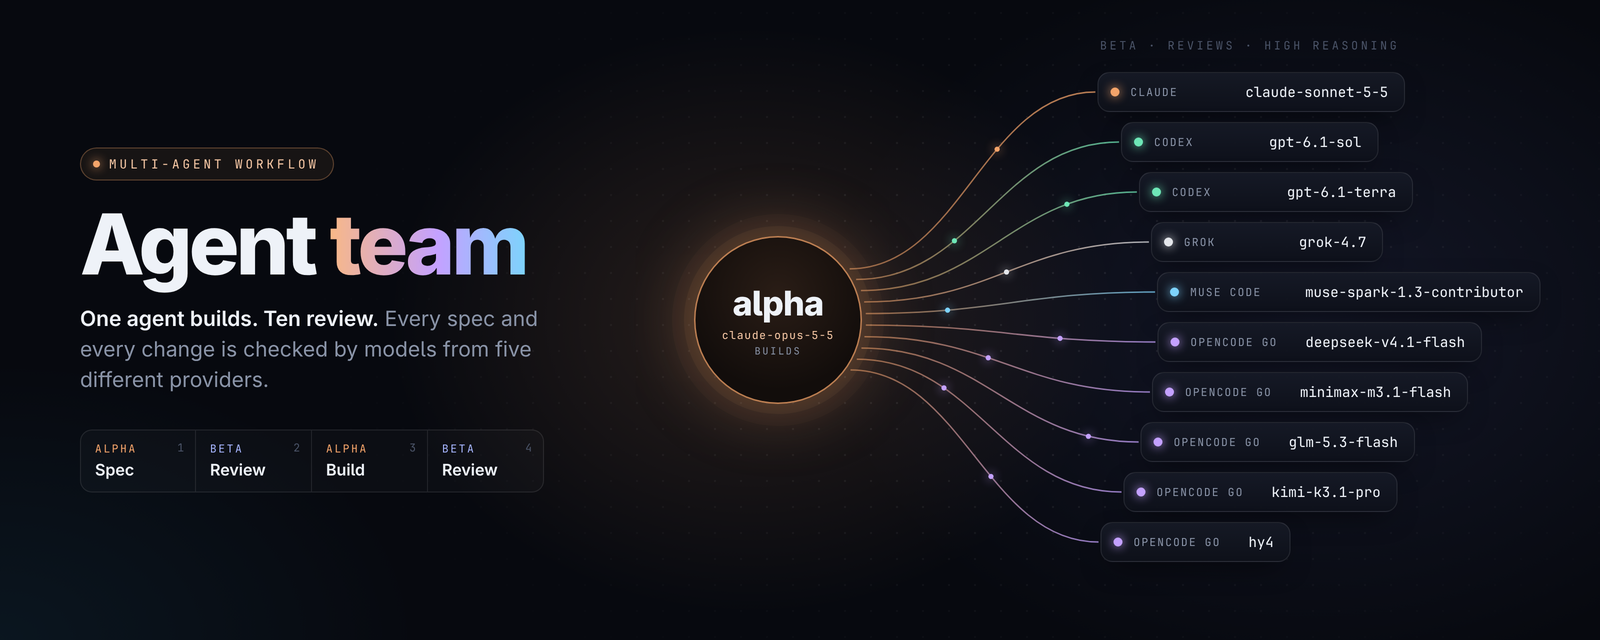
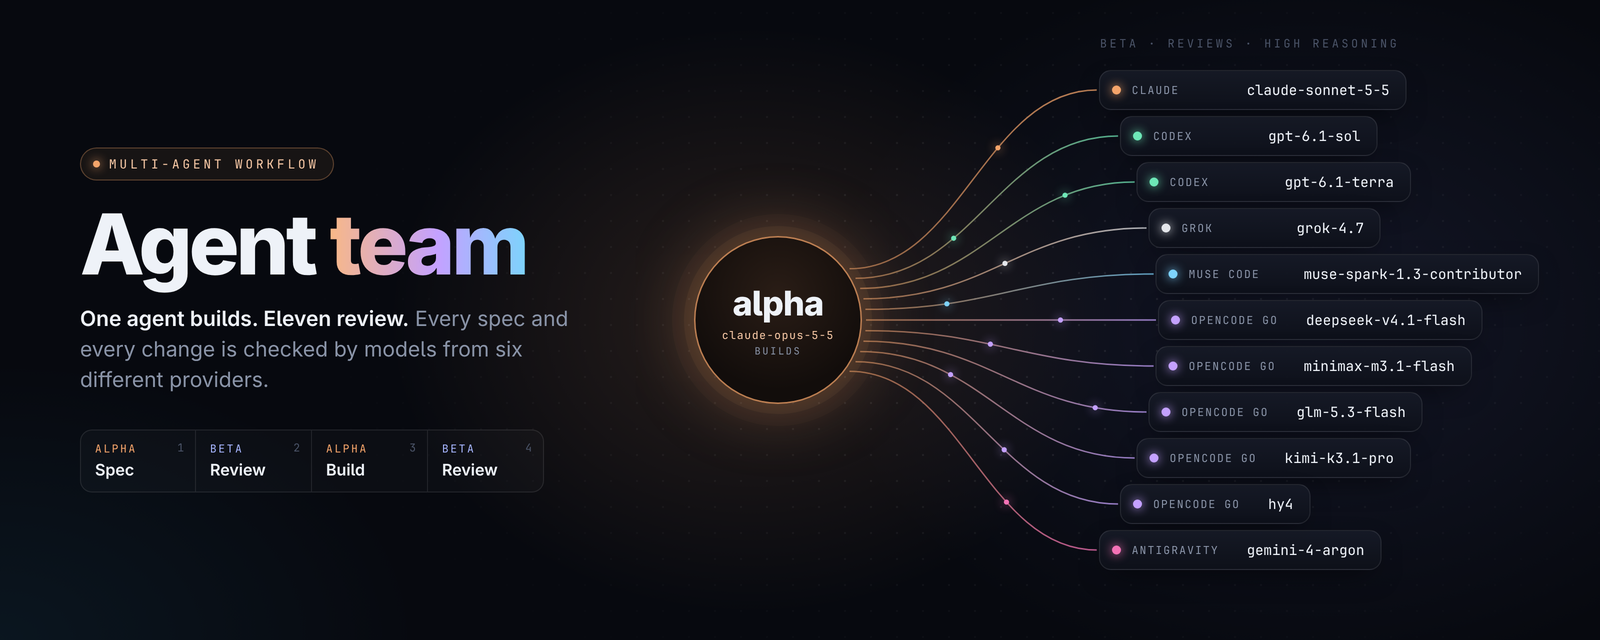
Add Gemini 4 Argon (Antigravity) to team beta
Gemini 4 Argon runs at thought level high through T3's Antigravity
provider, which here runs on the agy CLI's ACP server (agy acp). Beta
is now eleven reviewers from six providers.

The hero gets an Antigravity node. Its column now centres itself on
alpha from the team size, at slightly tighter spacing, so eleven nodes
fit in the 640px image.

diff --git a/assets/hero.html b/assets/hero.html
@@ -87,7 +87,7 @@
 <section class="copy">
   <div class="chip"><i></i>MULTI-AGENT WORKFLOW</div>
   <h1>Agent <span>team</span></h1>
-  <p class="lede"><b>One agent builds. Ten review.</b> Every spec and every change is checked by models from five different providers.</p>
+  <p class="lede"><b>One agent builds. Eleven review.</b> Every spec and every change is checked by models from six different providers.</p>
   <div class="steps">
     <div class="step"><div class="n">1</div><div class="who a">ALPHA</div><div class="what">Spec</div></div>
     <div class="step"><div class="n">2</div><div class="who b">BETA</div><div class="what">Review</div></div>
@@ -100,7 +100,7 @@
 <div class="label" id="betaLabel">BETA · REVIEWS · HIGH REASONING</div>
 
 <script>
-const COLORS = { Claude: "#f4a46a", Codex: "#6ee7b7", Grok: "#e5e7eb", "Muse Code": "#7dd3fc", "OpenCode Go": "#c4a1ff" }
+const COLORS = { Claude: "#f4a46a", Codex: "#6ee7b7", Grok: "#e5e7eb", "Muse Code": "#7dd3fc", "OpenCode Go": "#c4a1ff", Antigravity: "#f472b6" }
 const TEAM = [
   ["Claude", "claude-sonnet-5-5"],
   ["Codex", "gpt-6.1-sol"],
@@ -112,18 +112,20 @@ const TEAM = [
   ["OpenCode Go", "glm-5.3-flash"],
   ["OpenCode Go", "kimi-k3.1-pro"],
   ["OpenCode Go", "hy4"],
+  ["Antigravity", "gemini-4-argon"],
 ]
 
 const AX = 778, AY = 320, AR = 84           // alpha centre and radius
 const alpha = document.getElementById("alpha")
 alpha.style.left = (AX - AR) + "px"; alpha.style.top = (AY - AR) + "px"
 
-const firstY = 72, step = 50, R = 380
+const step = 46, R = 380, mid = (TEAM.length - 1) / 2
+const firstY = AY - 20 - step * mid         // centre the column on alpha
 const svg = document.getElementById("net")
 let defs = "<defs>", paths = "", dots = ""
 TEAM.forEach(([prov, model], i) => {
   const y = firstY + i * step + 20
-  const t = (y - AY) / (step * 4.5 + 20)    // -1 .. 1
+  const t = (y - AY) / (step * mid + 20)    // -1 .. 1
   const x = AX + R - 70 * t * t             // a gentle arc, nearest in the middle
   const el = document.createElement("div")
   el.className = "node"
@@ -140,7 +142,7 @@ TEAM.forEach(([prov, model], i) => {
   const d = `M${sx} ${sy} C${c1x} ${sy} ${c2x} ${ey} ${ex} ${ey}`
   paths += `<path d="${d}" fill="none" stroke="url(#l${i})" stroke-width="1.4"/>`
   // a travelling "packet" on each line, at varied positions
-  const f = [0.62, 0.35, 0.78, 0.5, 0.25, 0.7, 0.42, 0.85, 0.3, 0.58][i]
+  const f = [0.62, 0.35, 0.78, 0.5, 0.25, 0.7, 0.42, 0.85, 0.3, 0.58, 0.66][i]
   const mt = 1 - f
   const px = mt*mt*mt*sx + 3*mt*mt*f*c1x + 3*mt*f*f*c2x + f*f*f*ex
   const py = mt*mt*mt*sy + 3*mt*mt*f*sy + 3*mt*f*f*ey + f*f*f*ey

diff --git a/README.md b/README.md
@@ -1,5 +1,5 @@
 <p align="center">
-  <img src="assets/hero.png" alt="Agent team: alpha (claude-opus-5-5) builds, and ten beta reviewers from five providers review every spec and change" width="100%">
+  <img src="assets/hero.png" alt="Agent team: alpha (claude-opus-5-5) builds, and eleven beta reviewers from six providers review every spec and change" width="100%">
 </p>
 
 # Agent team
@@ -19,13 +19,16 @@
 | 8 | beta | OpenCode Go | `opencode-go/glm-5.3-flash` | high |
 | 9 | beta | OpenCode Go | `opencode-go/kimi-k3.1-pro` | high |
 | 10 | beta | OpenCode Go | `opencode-go/hy4` | high |
+| 11 | beta | Antigravity | `gemini-4-argon` | high |
 
 Every beta model runs at **high** reasoning, set explicitly (GPT-6.1 Terra defaults to low). The
 OpenCode models use the paid `opencode-go` tier, not the free models. Kimi K3.1 Pro replaces Mimo
 (`mimo-v2.6`), which is no longer on the team. GPT-6.1 Terra, a new OpenAI model, joins as a ninth
 reviewer, through Codex like GPT-6.1 Sol. Hy4 (`opencode-go/hy4`, not `hy4-preview`) joins as a tenth
 reviewer, through OpenCode Go. Muse Spark 1.3 (`muse-spark-1.3-contributor`) replaces Muse Wonder
-(`muse-wonder-1.0`), which Muse Code here does not offer.
+(`muse-wonder-1.0`), which Muse Code here does not offer. Gemini 4 Argon (`gemini-4-argon`, thought
+level high) joins as an eleventh reviewer, through Antigravity, which runs on the `agy` CLI's ACP
+server (`agy acp`).
 
 ## How the team works
 
